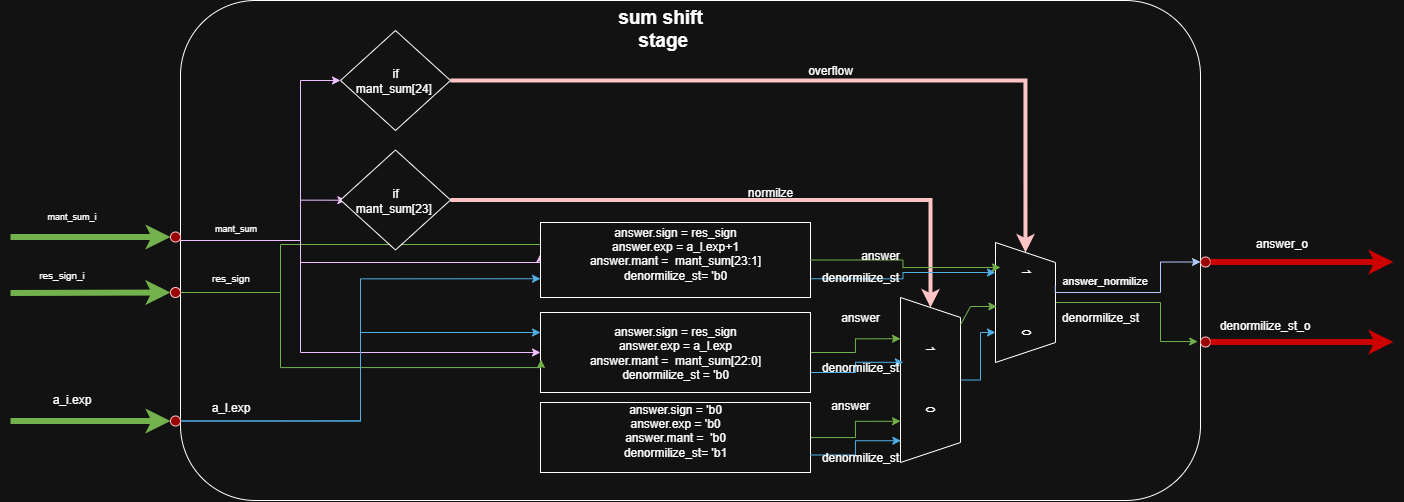
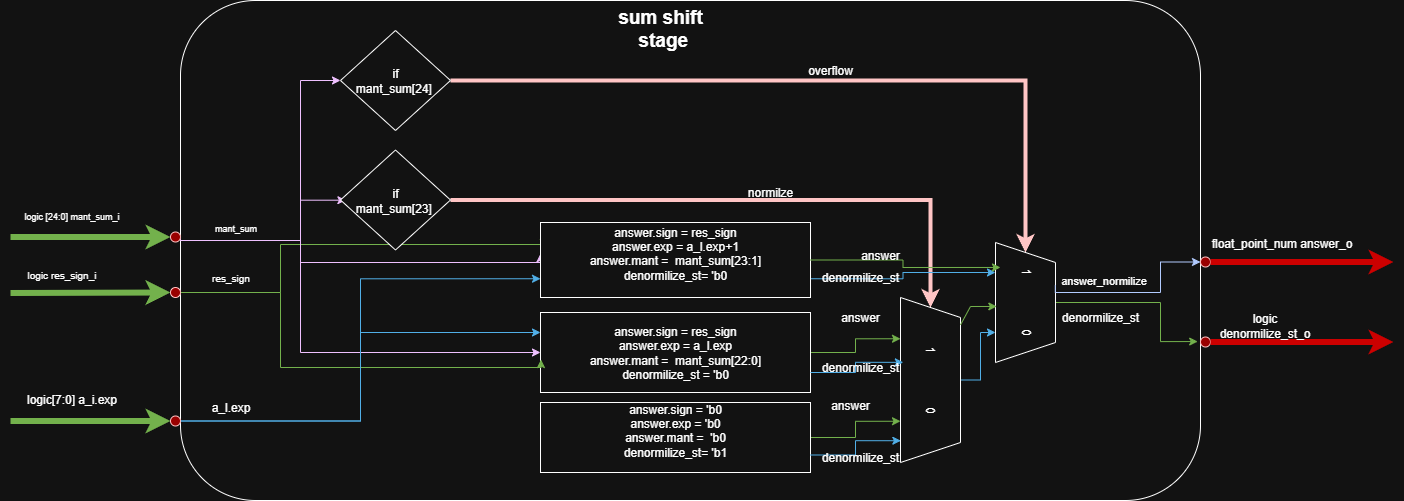
FIX(09_basic_arithmetic/source/FPU/FPU_piplined/readme) : исправил картинки

diff --git a/09_basic_arithmetic/source/FPU/FPU_piplined/README.md b/09_basic_arithmetic/source/FPU/FPU_piplined/README.md
@@ -37,7 +37,7 @@
 
 
 
-## Описание модуля fetch_stage
+## Описание модуля parse_stage
 
 
   ```sv
@@ -64,7 +64,7 @@
 
 *Комментарий:* при активном `valid_i` стадия добавляет ведущий «1» к мантиссе (так как в нормализованном IEEE-754 формате мантисса записывается без ведущей единицы). Проверка особых случаев (ноль, бесконечность/NaN) производится до сложения.
 
- ![fetch](../../../pic/fp_sum/fetch_stage.png)
+ ![fetch](../../../pic/fp_sum/01_parse_stage.drawio.png)
 
   [ссылка в drawio](https://viewer.diagrams.net/?tags=%7B%7D&lightbox=1&highlight=0000ff&edit=_blank&layers=1&nav=1&dark=auto#G1S2nMKdY1hsTfB1ZZuwkGL4u54-6SlDVt)
 
